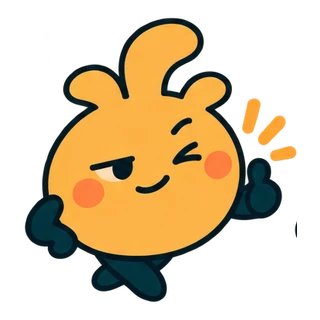
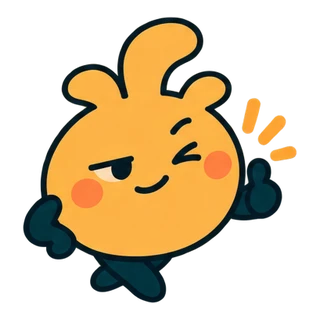
fix: isolate mascot cuts and preserve original design source (#197)

diff --git a/scripts/split-haruman.py b/scripts/split-haruman.py
@@ -1,0 +1,27 @@
+"""Crop the eight generated Haruman cuts; preserve drawing pixels and transparent edges.
+Requires Pillow, numpy, scipy. Source is versioned so production cuts are reproducible.
+"""
+from pathlib import Path
+from PIL import Image
+import numpy as np
+from scipy.ndimage import label, binary_dilation
+import hashlib, json
+root=Path(__file__).resolve().parent.parent
+source=root/'assets/source/haruman-emotions-v1.png'
+im=Image.open(source).convert('RGBA');pixels=np.array(im)
+labels,_=label(pixels[:,:,3]>100)
+names=['welcome','thinking','correct','retry','celebrate','encourage','journey','rest']
+out=root/'assets/art/haruman';out.mkdir(parents=True,exist_ok=True);entries=[]
+for i,name in enumerate(names):
+    # Connected components prevent neighboring hands leaking across grid boundaries.
+    components=[i+1]+([9,10,11] if name=='encourage' else [])
+    mask=binary_dilation(np.isin(labels,components),iterations=2)
+    frame=pixels.copy();frame[:,:,3]=np.where(mask,frame[:,:,3],0)
+    cut=Image.fromarray(frame);box=cut.getbbox();cut=cut.crop(box)
+    cut.thumbnail((288,288),Image.Resampling.LANCZOS)
+    canvas=Image.new('RGBA',(320,320));canvas.alpha_composite(cut,((320-cut.width)//2,(320-cut.height)//2))
+    canvas.save(out/(name+'-v1.webp'),format='WEBP',quality=90,method=4)
+    canvas.save(out/(name+'-v1.png'),optimize=True)
+    entries.append(dict(emotion=name,file=name+'-v1.webp',width=320,height=320,sourceRect=box,bytes=(out/(name+'-v1.webp')).stat().st_size))
+(out/'manifest.json').write_text(json.dumps(dict(name='하루만',identity='Round apricot body, three attached rounded rays, bent tall centre ray, teal limbs; approved pre-ABC reference.',source='assets/source/haruman-emotions-v1.png',sourceSHA256=hashlib.sha256(source.read_bytes()).hexdigest(),frames=entries),ensure_ascii=False,indent=2)+'\n')
+print('8 isolated transparent cuts:',sum(e['bytes'] for e in entries),'WebP bytes')

diff --git a/docs/qa/haruman-emotions-v142.md b/docs/qa/haruman-emotions-v142.md
@@ -1,0 +1,28 @@
+# 하루만 이모션 v142 · #197
+
+사용자 교정: 배가 나온 B안은 사용하지 않는다. 기존 둥근 살구색 몸, 세 갈래 둥근 머리,
+가운데 휘어진 긴 머리, 짧은 짙은 팔다리를 기준으로 한다. 앱은 하루말, 캐릭터는 하루만.
+
+## 에셋과 배치
+
+- 투명 320×320 PNG 8개와 앱용 WebP 8개, `assets/art/haruman/manifest.json`.
+- 생성 원본 `assets/source/haruman-emotions-v1.png`, 분리 스크립트 `scripts/split-haruman.py`.
+  셀 단순 분할에서 이웃 손 조각이 섞여 연결 성분별로 다시 분리했다. 색/형태 재생성 없음.
+- 인사: 오늘 학습. 응원: 학습/입문. 휴식: 내 기록. 생각: 복습/여행 회상.
+  여행: 여행 시작. 정답/납작 재도전: Shorts·Random·여행 피드백. 축하: 여행 완주.
+- 이미지 안에 언어/정답 문구 없음. 장식은 aria-hidden, 원래 채점 문구와 해설이 의미를 전달한다.
+- 국소 크림색 `#fff3da` 표면과 테두리가 짙은 팔다리를 분리한다. 다크 테마 전체를 밝게 바꾸지 않는다.
+- 완료 550ms 한 번의 작은 움직임, reduced-motion에서는 정지. 팝업/자동 진행/오디오/진동 없음.
+- WebP 전체 200KB 이하, 8종을 서비스 워커 셸에 포함해 오프라인에서도 사용한다.
+
+## 검증
+
+- Node24 quick 135/135 통과. 첫 full은 로더 인접 문자열 검사 1건 실패(154/155).
+  새 presentation 모듈 순서를 검사에 반영하고 관련 5/5 통과. 실패를 숨기지 않는다.
+- 로컬 브라우저 실행 파일 없음. Cloud Browser 로컬 :4174는 ERR_BLOCKED_BY_CLIENT.
+  로컬 HTTP 개별 세션은 서버 종료로 ECONNREFUSED. 배포 앱 장애 증거가 아니다.
+- GitHub Ubuntu Chrome에서 320/375/390/430×라이트/다크의 이미지 로드·범위·크림 표면·
+  실제 여행 오답/정답/완료·재진입·기존 보존 회귀를 검사한다. 최종 결과는 #197.
+- 실제 iPhone/Android 및 학습자 반응은 미검증. 생성 시트는 브라우저 검사 증거가 아니다.
+- 복귀점: v141 `26efe0da7eee5d05812d3802ef8ada82151bdc3d`.
+- 공개 URL: https://okometsbu-beep.github.io/topik-quest/ . 검증 전 PR/병합/배포 금지.

diff --git a/docs/STATUS.md b/docs/STATUS.md
@@ -1,3 +1,14 @@
+## 2026-09-27 하루만 이모션 후보 v142 · #197
+
+- 최신 사용자 교정을 반영해 B안 대신 기존 둥근 몸·세 갈래 머리 디자인의 8종을 분리했다.
+- `haruman-mascot.js`가 오늘/학습/복습/내 기록/여행과 채점 피드백에 장식만 붙인다.
+  팔다리 대비는 국소 크림 표면으로 해결. 두 테마·기존 문항/저장/모드 불변.
+- 분리 중 이웃 손 조각을 발견해 연결 성분으로 다시 분리했다. PNG+WebP/원본/분리 스크립트 보존.
+- Node quick135/135, 로더 검사 보정 뒤 집중5/5. 최종 CI·모바일 화면·배포는 #197에서 추적한다.
+  현재 단계는 후보이며 실기기와 학습자 반응은 미검증. `docs/qa/haruman-emotions-v142.md` 참조.
+- 복귀점 v141 `26efe0da7eee5d05812d3802ef8ada82151bdc3d`; 공개 https://okometsbu-beep.github.io/topik-quest/ .
+- 다음: 후보 모바일 검수 후 공개 반영·캐시/라이브 자산 확인. 실제 기기 미검증은 유지한다.
+
 ## 2026-09-27 v141 여행 어드벤처 전환 · #195
 
 - 사용자 직접 지시에 따라 기본 여행을 장면·대화·단서·응답으로 전환했다. 기존 걷기 RPG는

diff --git a/docs/HANDOFF.md b/docs/HANDOFF.md
@@ -1,3 +1,14 @@
+## 2026-09-27 하루만 이모션 후보 v142 · #197
+
+- 최신 사용자 교정을 반영해 B안 대신 기존 둥근 몸·세 갈래 머리 디자인의 8종을 분리했다.
+- `haruman-mascot.js`가 오늘/학습/복습/내 기록/여행과 채점 피드백에 장식만 붙인다.
+  팔다리 대비는 국소 크림 표면으로 해결. 두 테마·기존 문항/저장/모드 불변.
+- 분리 중 이웃 손 조각을 발견해 연결 성분으로 다시 분리했다. PNG+WebP/원본/분리 스크립트 보존.
+- Node quick135/135, 로더 검사 보정 뒤 집중5/5. 최종 CI·모바일 화면·배포는 #197에서 추적한다.
+  현재 단계는 후보이며 실기기와 학습자 반응은 미검증. `docs/qa/haruman-emotions-v142.md` 참조.
+- 복귀점 v141 `26efe0da7eee5d05812d3802ef8ada82151bdc3d`; 공개 https://okometsbu-beep.github.io/topik-quest/ .
+- 다음: 후보 모바일 검수 후 공개 반영·캐시/라이브 자산 확인. 실제 기기 미검증은 유지한다.
+
 ## 2026-09-27 v141 scene-led travel · #195
 
 - Direct user instruction replaces the default travel RPG with a dialogue adventure. New owners:
